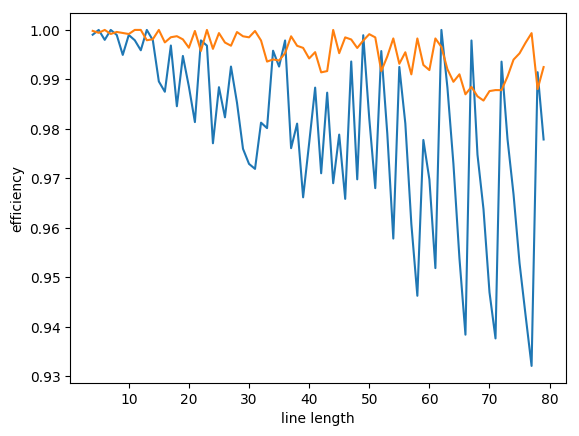
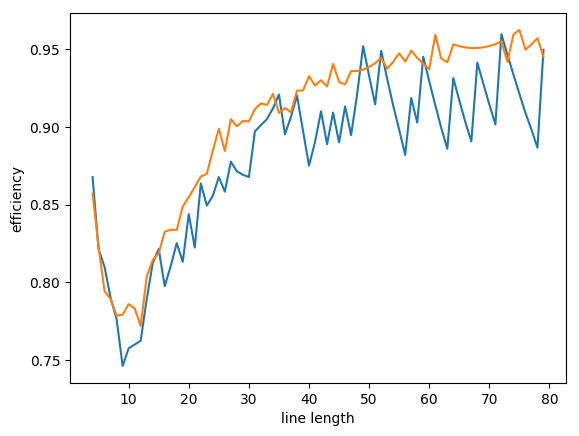
misc

diff --git a/linesi.py b/linesi.py
@@ -45,7 +45,7 @@ def make_compute_lines(complete_line):
     return lines
   return compute_lines
 
-compute_lines = make_compute_lines(complete_line2)
+compute_lines = make_compute_lines(complete_line1)
 
 def compute_line_efficiency(text, max_line_length):
   lines = compute_lines(text, max_line_length) 

diff --git a/linesf.py b/linesf.py
@@ -52,7 +52,7 @@ def make_loop(update):
 
   return loop
 
-loop = make_loop(update2)
+loop = make_loop(update1)
 
 def compute_lines(text, MaxLength):
   words = text.split(" ")
